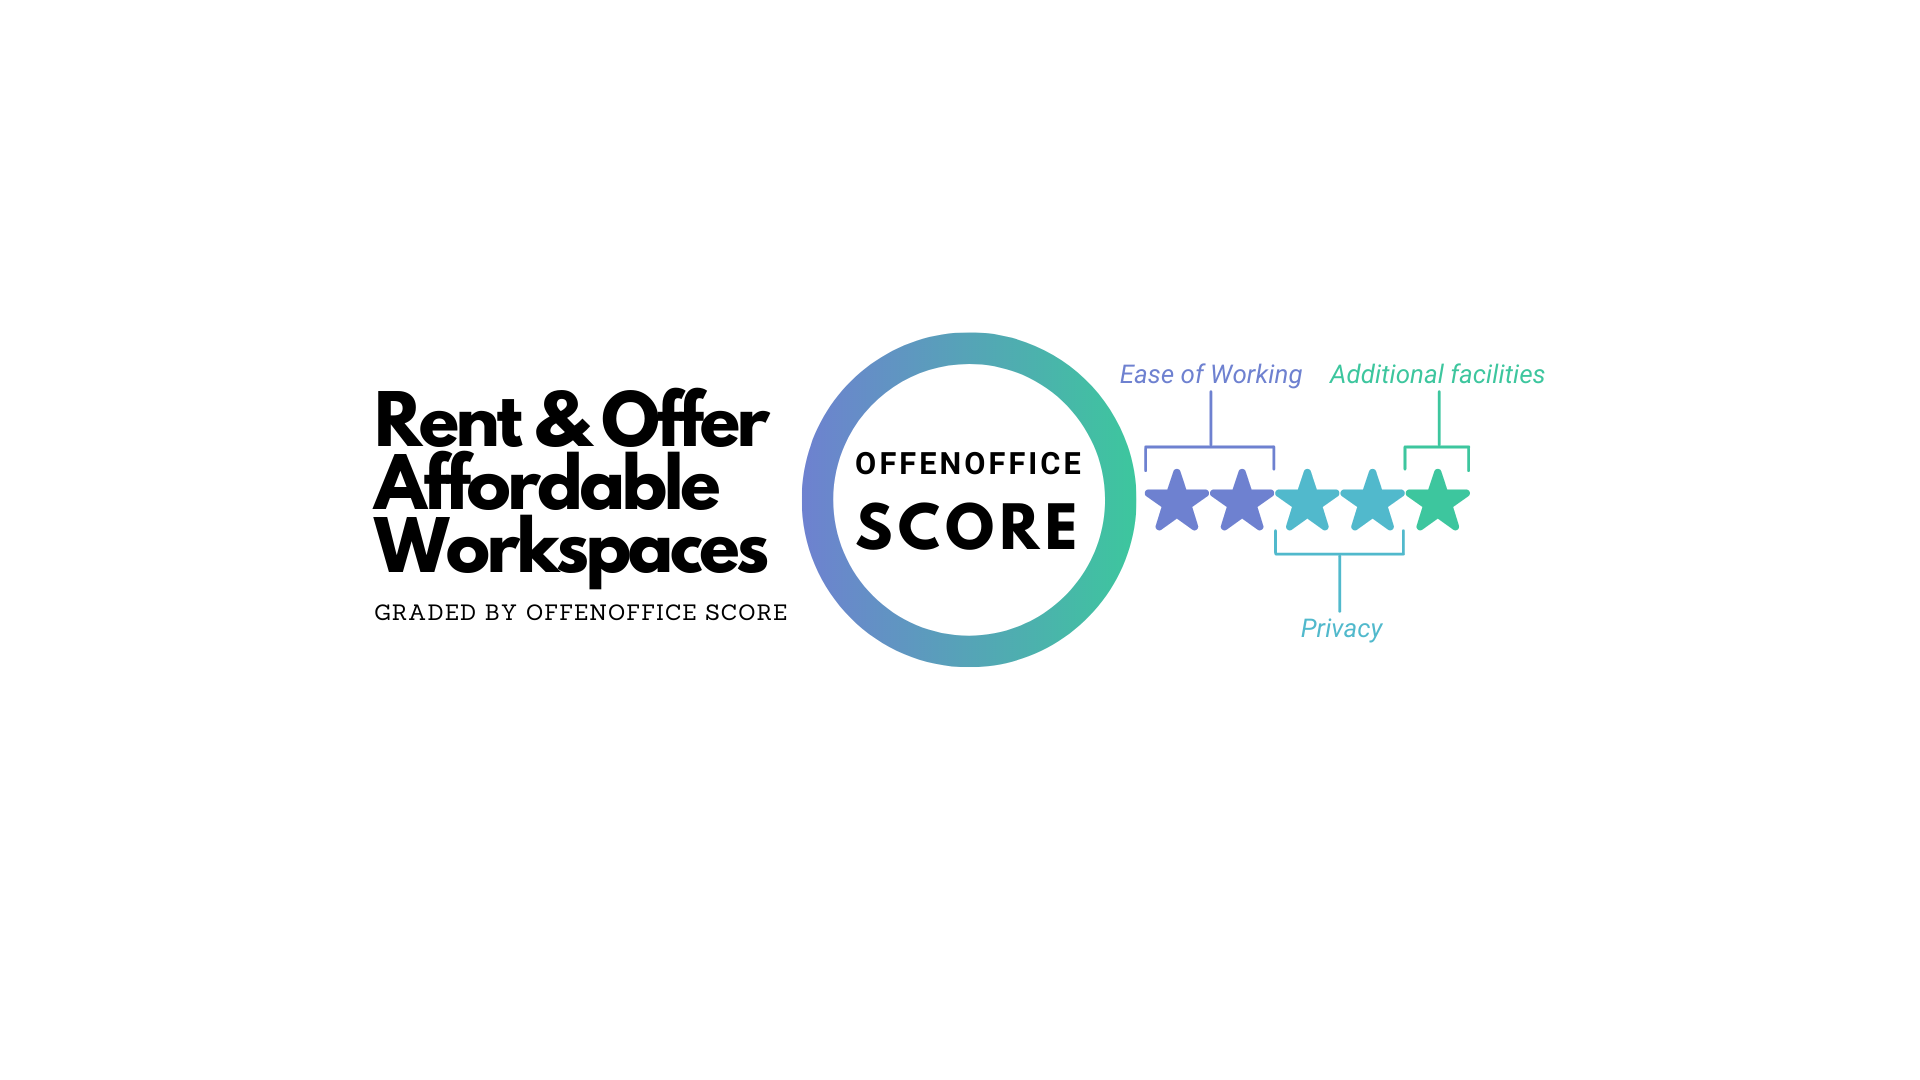
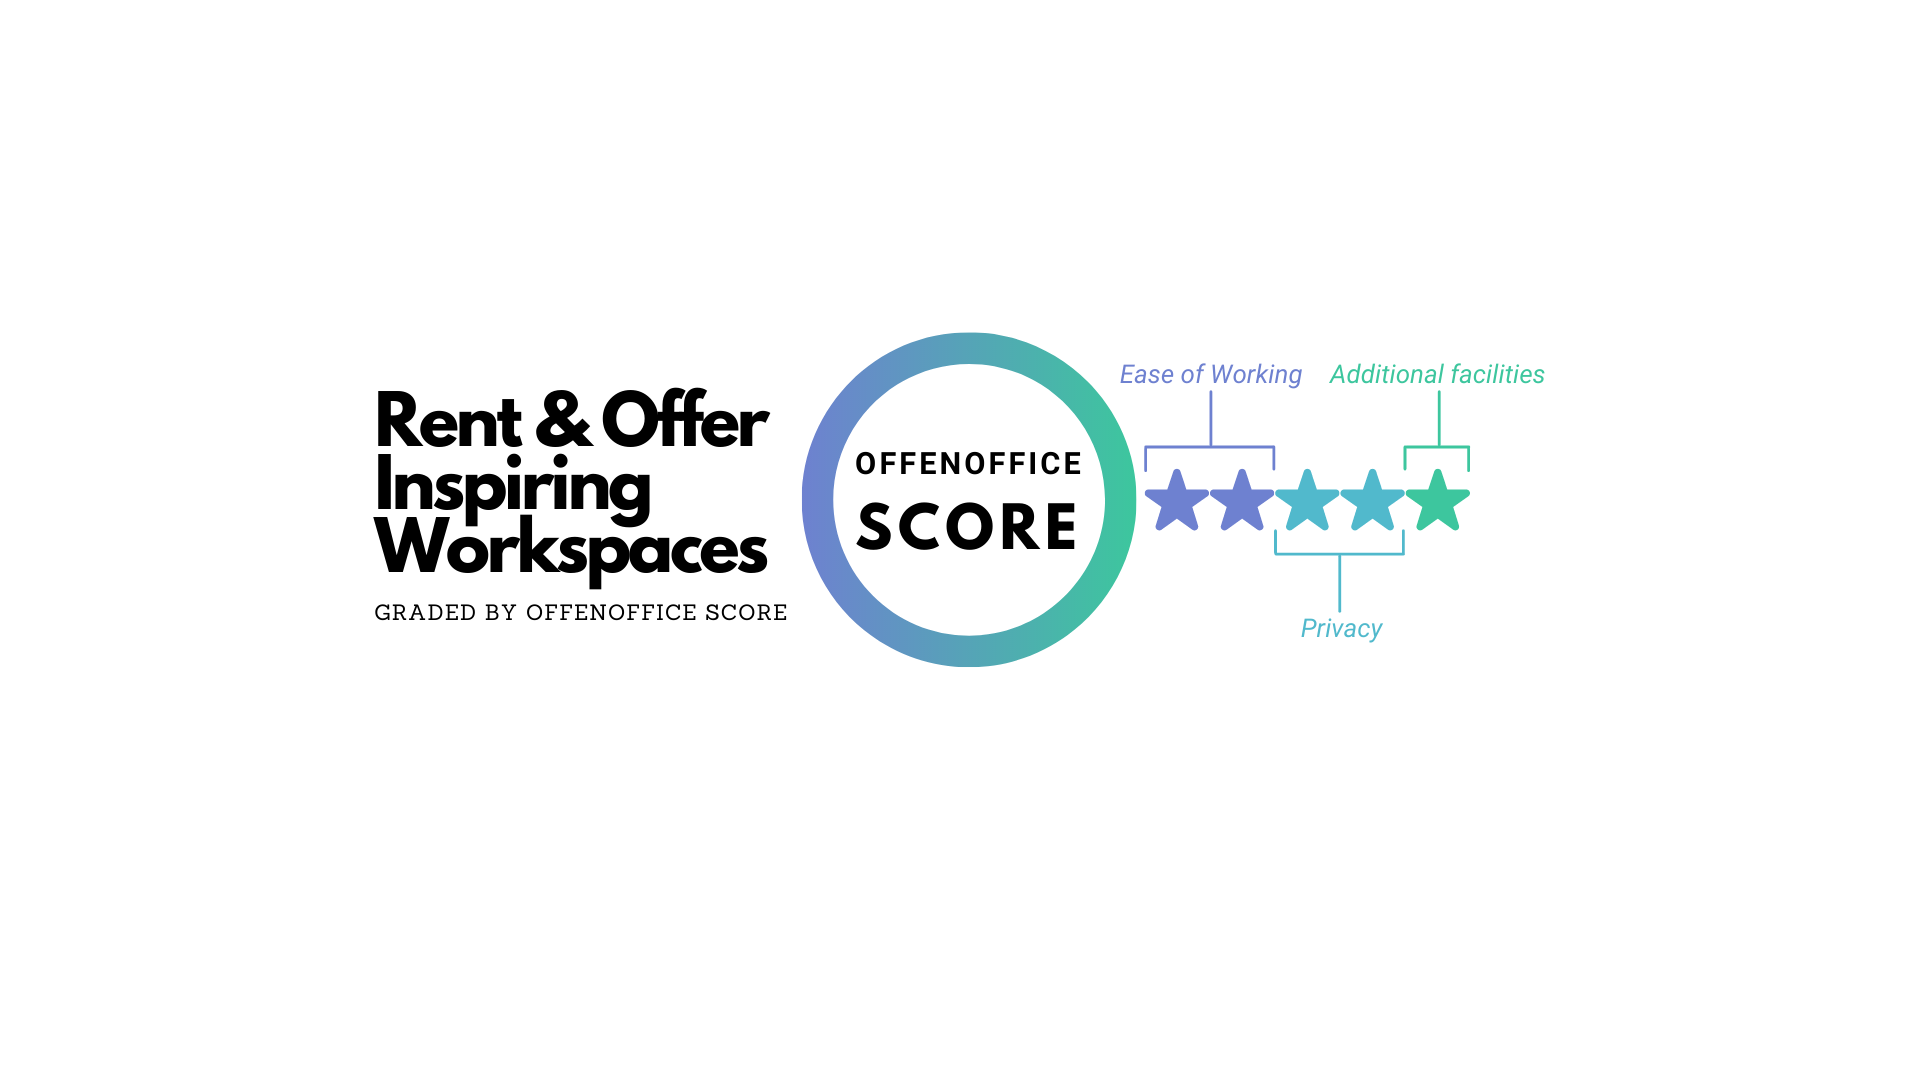
content update

Changed region(s): [[0.1875, 0.3972, 0.375, 0.4889]]

diff --git a/index.html b/index.html
@@ -81,7 +81,7 @@
 					<h1>Find
 					your<br /><strong>
 					Dream Office</strong></h1>
-					<p>Explore & rent inspiring accommodations ready for home-office & flexible workspaces for remote-working.</br></br>Share your home-office space and start earning now.</p>
+					<p>Explore, rent & share inspiring accommodations ready for home-office & flexible workspaces for remote-working.</br>
 					<ul class="actions special">
 						<li><a href="#one" class="button large wide scrolly-middle">Explore Now</a></li>
 						<li><a href="#two" class="button large wide scrolly">Become a Host</a></li>
@@ -95,14 +95,13 @@
 					<div class="image" data-position="top left">
 						<img src="images/roberto-nickson-GaBDdA63GcQ-unsplash.jpg" alt="Find and rent affordable accomodations fit for home-office" />
 					</div>
-					<h2>For<br />
-					Individuals
+					<h2>Work from a New locale.
 					</h2>
 					<div class="content">
-						<h3><i>Find beautiful accomodations ready for Home-office!</i></h3>
-						<p><i>Break from your daily routine & have a work-vacation or a work-weekend at an exotic location!</br>Sign-up for early access & start exploring inspiring accommodations ready for home-office & flexible workspaces with a secure wifi connection to work.</br>All our accommodations and offices are graded as per the ease of working onsite, privacy & the available facilities by the 'OffenOffice Score', so that you can simply check-in and immediately start working!</i></p>
+						<h3><i>Find Beautiful Accomodations Ready for Home-office.</i></h3>
+						<p><i>Take a break from your daily routine & work from an exotic location!<br>Simply check-in & start working, without any worries.<br>All our accommodations & offices are graded as per the ease of working onsite, privacy & the available facilities by the 'OffenOffice Score'.</i></p>
 						<ul class="actions">
-							<li><a href="#eight" class="button primary scrolly accent4">Sign-up Now</a></li>
+							<li><a href="#eight" class="button primary scrolly accent4">Sign-up for early access</a></li>
 						</ul>
 					</div>
 				</div>
@@ -114,13 +113,12 @@
 					<div class="image" data-position="top right">
 						<img src="images/todd-kent-178j8tJrNlc-unsplash.jpg" alt="affordable workplaces for startups" />
 					</div>
-					<h2>For<br />
-					Hosts</h2>
+					<h2>Generate an extra income, passively.</h2>
 					<div class="content">
-						<h3><i>Share your home-office space & start earning!</i></h3>
-						<p><i>Working people are in need of a break from routine.</br>An available home-office setup offers a high added value to your property and increases your revenue.</br>Also, if your home-office space is currently not in use, you can share it with individuals & earn money from it.</br>Don't hassle with payments and cancellations. We will handle all the payments securely for you and also provide the best customer service.</i></p>
+						<h3><i>Share your home-office space & start earning.</i></h3>
+						<p><i>An available home-office setup offers a high added value to your property and increases your revenue.<br>Also, if your home-office space is currently not in use, you can share it with individuals & earn money from it.<br>With OffenOffice, you don't have to do the hard work. We will handle everything for you!</i></p>
 						<ul class="actions">
-							<li><a href="https://www.offenoffice.com/requirements.html" class="button primary accent1">Add your Listing</a></li>
+							<li><a href="https://www.offenoffice.com/requirements.html" class="button primary accent4">Add your Listing</a></li>
 						</ul>
 					</div>
 				</div>
@@ -138,8 +136,8 @@
 								<img src="images/Offenoffice_score_explanation.png" alt="Accomodations are graded as per the OffenOffice score" />
 							</div>
 							<div class="content">
-								<h3><i>Accomodations are graded as per the OffenOffice score.</i></h3>
-								<p><i>If you want to combine work and vacation, it is important that everything works perfectly. That is why our accommodations are are not only selected according to how beautiful the locations are, but also graded as per the ease of working onsite, privacy & available facilities by the 'OffenOffice Score'.</i></p>
+								<h3><i>You can simply check-in and start working!</i></h3>
+								<p><i>If you want to combine work and vacation, it's important that everything works perfectly. You don't need to worry whether your rented space is suitably equipped for your office-needs or not. We grade all our accomodations as per the OffenOffice score!</i></p>
 							</div>
 						</article>
 						<article>
@@ -147,8 +145,8 @@
 								<img src="images/brooke-cagle-g1Kr4Ozfoac-unsplash.jpg" alt="We care for your security & peace of mind" />
 							</div>
 							<div class="content">
-								<h3><i>We care for your security & peace of mind.</i></h3>
-								<p><i>All accommodations and workplaces you find on our website have been certified by us. Bookings and payments are secured by us. Your money is kept safe by us until the day of arrival, so in case of cancellation (e.g. by Corona, other unforseeable circumstances) you will get your money back quickly.</i></p>
+								<h3><i>You don't have to do the hard work!</i></h3>
+								<p><i>All accommodations and offices on our website are graded and certified by us. Bookings and payments are secured through our portal. Your money is kept safely with us until the day of arrival, so in case of cancellation (e.g. by Corona etc.) you'll get your money back quickly!</i></p>
 							</div>
 						</article>
 						<article>
@@ -156,8 +154,8 @@
 								<img src="images/john-schnobrich-2FPjlAyMQTA-unsplash.jpg" alt="Promoting reuse of used office furniture" />
 							</div>
 							<div class="content">
-								<h3><i>We are there for you. 24 hours a day, 7 days a week!</i></h3>
-								<p><i>We are more than happy to advise you personally and find your individual dream office together with you. Please send us an inquiry via our contact form and we will get back to you within 24 hours - even on weekends, because we are there for you 7 days a week.</i></p>
+								<h3><i>You don't have to worry about any enquiries!</i></h3>
+								<p><i>Get more involved in your lifestyle persuits, because we will handle all the customer enquiries for you. If you wish to start hosting, please send us an inquiry via our requirements form & we will get back to you within 24 hours. We are there for you 7 days a week!</i></p>
 							</div>
 						</article>
 						<nav>
@@ -201,7 +199,7 @@
 								<h3><a href="https://www.offenoffice.com/requirements.html" class="scrolly">Work & Live at Bodensee</a></h3>
 								<p class="icon solid fa-map-marker-alt"> Friedrichshafen, 88045<br><strong><i>This is a sample Advertisement</strong></i><br>Rent: 30€/day, Check availability with us<br>property: furnished room, printer, coffee, bed, WC<br>all-included (internet, all bills), flexible terms</p>
 								<ul class="actions special">
-									<li><a href="https://www.offenoffice.com/requirements.html" class="button primary accent4">Get this space</a></li>
+									<li><a href="https://www.offenoffice.com/requirements.html" class="button primary accent2">Get this space</a></li>
 								</ul>
 							</div>
 						</article>
@@ -211,7 +209,7 @@
 								<h3><a href="https://www.offenoffice.com/requirements.html" class="scrolly">Beautiful Casa for Home-office</a></h3>
 								<p class="icon solid fa-map-marker-alt"> Valencia, 70173<br><strong><i>This is a sample Advertisement</strong></i><br>Rent: 35€/day, Check availability with us<br>property: furnished home with workspace, printer, coffee, bed, WC, all-included (internet, all bills)</p>
 								<ul class="actions special">
-									<li><a href="https://www.offenoffice.com/requirements.html" class="button primary accent1">Get this space</a></li>
+									<li><a href="https://www.offenoffice.com/requirements.html" class="button primary accent3">Get this space</a></li>
 								</ul>
 							</div>
 						</article>
@@ -229,7 +227,7 @@
 					<form action="https://offenoffice.us7.list-manage.com/subscribe/post?u=5e1241882b487ff71ec0541ec&amp;id=eea2de931d" method="post" id="mc-embedded-subscribe-form" name="mc-embedded-subscribe-form" class="combined" target="_blank" novalidate>
 						<input type="email" name="EMAIL" id="mce-EMAIL" placeholder="Your email address" required class="alt accent4" />
 						<!-- real people should not fill this in and expect good things - do not remove this or risk form bot signups-->
-						<input type="submit" class="button primary accent4" id="mc-embedded-subscribe" value="Sign-up" />
+						<input type="submit" class="button primary accent3" id="mc-embedded-subscribe" value="Sign-up" />
 					</form>
 
 				</div>

diff --git a/offenoffice_score.html b/offenoffice_score.html
@@ -68,7 +68,7 @@
 									<a href="#nine" class="image scrolly"><img src="images/plug_and_play.png" alt="Plug & Play" /></a>
 									<ul class="actions special">
 										<li>
-											<a href="#nine" class="button primary scrolly accent3">Sign-up Now</a>
+											<a href="#nine" class="button primary scrolly accent3">Sign-up for early access</a>
 										</li>
 									</ul>
 							</div>	
@@ -80,7 +80,7 @@
 									<a href="#nine" class="image scrolly"><img src="images/privacy.png" alt="Plug & Play" /></a>
 									<ul class="actions special">
 										<li>
-											<a href="#nine" class="button primary scrolly accent2">Sign-up Now</a>
+											<a href="#nine" class="button primary scrolly accent2">Sign-up for early access</a>
 										</li>
 									</ul>
 							</div>
@@ -92,7 +92,7 @@
 									<a href="#nine" class="image scrolly"><img src="images/additional.png" alt="Plug & Play" /></a>
 									<ul class="actions special">
 										<li>
-											<a href="#nine" class="button primary scrolly accent1">Sign-up Now</a>
+											<a href="#nine" class="button primary scrolly accent1">Sign-up for early access</a>
 										</li>
 									</ul>
 							</div>
@@ -107,12 +107,12 @@
 				<div class="inner">
 					<header class="major">
 						<h3>Hey! We're glad that you are interested.</h3>
-						<p><i>We're working very hard to add all the inspiring accommodations fit for your home-office needs. If you'd like us to send you a reminder when we're ready and get notified of new listings or services near you, just put your email below.</i></p>
+						<p><i>We're working very hard to add all the inspiring accommodations fit for your home-office needs.</br>If you'd like us to send you a reminder when we're ready and get notified of new listings or services near you, just put your email below.</i></p>
 					</header>
 					<form action="https://offenoffice.us7.list-manage.com/subscribe/post?u=5e1241882b487ff71ec0541ec&amp;id=eea2de931d" method="post" id="mc-embedded-subscribe-form" name="mc-embedded-subscribe-form" class="combined" target="_blank" novalidate>
 						<input type="email" name="EMAIL" id="mce-EMAIL" placeholder="Your email address" required class="alt accent4" />
 						<!-- real people should not fill this in and expect good things - do not remove this or risk form bot signups-->
-						<input type="submit" class="button primary accent4" id="mc-embedded-subscribe" value="Sign-up" />
+						<input type="submit" class="button primary accent3" id="mc-embedded-subscribe" value="Sign-up" />
 					</form>
 				</div>
 			</section>

diff --git a/requirements.html b/requirements.html
@@ -58,16 +58,6 @@
 									<span class="image"><img src="images/Offen_Office_logo.png" alt="offenoffice" height="200" width="200" />
 									</span></br></br>
 								<input type="email" name="EMAIL" id="mce-EMAIL" placeholder="Your email address" required class="alt accent1" /></br>
-								<div class="col-12">
-									<h4>I am.. / We are.. </h4>
-									<select name="MMERGE4" class="" id="mce-MMERGE4">
-										<option value=""></option>
-										<option value="A Startup">A Startup</option>
-										<option value="A Business Entity">A Business Entity</option>
-										<option value="An Individual">An Individual</option>
-										<option value="A Service-provider">A Service-provider</option>
-									</select>
-								</div></br>
 								<div class="mc-field-group">
 									<h4>Website </h4>
 									<input type="text" value="" name="MMERGE2" class="" placeholder="Please provide us your website if available.." id="mce-MMERGE2">

diff --git a/assets/css/main.css b/assets/css/main.css
@@ -2050,7 +2050,7 @@ input, select, textarea {
 		input[type="button"].primary.accent4,
 		button.primary.accent4,
 		.button.primary.accent4 {
-			background-color: #6E81D0 !important;
+			background-color: #DE354C !important;
 			color: #ffffff !important;
 		}
 
@@ -3330,7 +3330,7 @@ input, select, textarea {
 		}
 
 		.wrapper.style1 {
-			background-color: #51CCA8;
+			background-color: #DE354C;
 			color: #d4f2e9;
 		}
 
